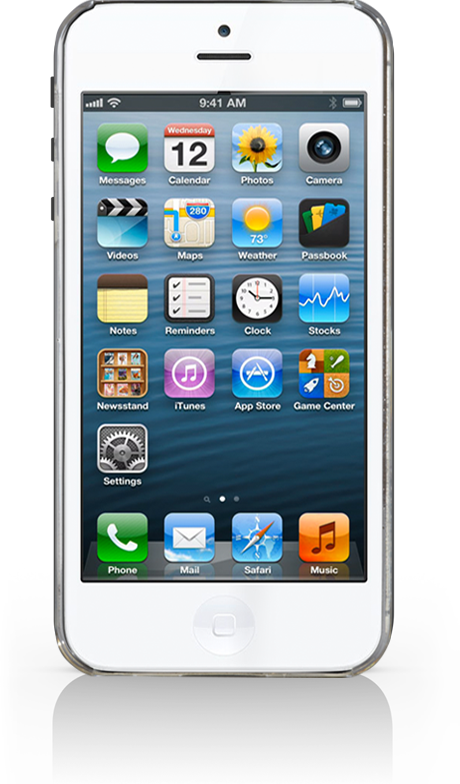
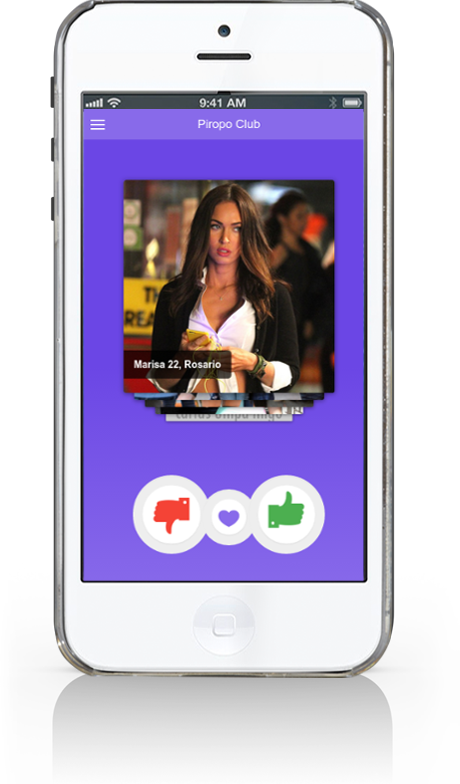
subiendo nueva imagen

diff --git a/index.html b/index.html
@@ -40,12 +40,14 @@ License URL: http://creativecommons.org/licenses/by/3.0/
 				 	<span class="menu"> </span> 
 					<ul>
 						 <li><a class="active hvr-shutter-out-horizontal"href="index.html">Home</a></li>
-						 <li><a class="hvr-shutter-out-horizontal" href="about.html">About us</a></li>
-						 <li><a class="hvr-shutter-out-horizontal" href="404.html">Team</a></li>
+						 <li><a class="hvr-shutter-out-horizontal" href="404.html">Descargar</a></li>
+						 <li><a class="hvr-shutter-out-horizontal" href="about.html">Políticas & Privacidad</a></li>
 						 <li><a class="hvr-shutter-out-horizontal" href="features.html">Términos & Condiciones</a></li>
 						   <li><a class="hvr-shutter-out-horizontal" href="contact.html">Contact us</a></li>					 
-					 </ul>				 
-				 </div>	
+
+ 				   </ul>				 
+				   
+			   </div>	
 				 		 <div class="clearfix"> </div>	 
 				 		 		 <!-- script-for-menu -->
 		 <script>
@@ -61,7 +63,8 @@ License URL: http://creativecommons.org/licenses/by/3.0/
 		 		<h1>PIROPO</h1>
 		 		<h2>.CLUB</h2>
 		 		<h3>APLICACIÓN<span>MÓVIL</span></h3>
-		 		<p>Conocé a tu verdadera media naranja y enamorate de la persona que es verdaderamente compatible </p>
+				<p>Conocé a tu verdadera media naranja y enamorate de la persona que es verdaderamente compatible </p> </br>
+				<div><a><img src="images/play-store.png" style="width: 200px;" ></a></div>
 		 	</div>
 		 	<div class="col-md-6 banner-right">
 		 		<div class="app-img">
@@ -146,7 +149,7 @@ License URL: http://creativecommons.org/licenses/by/3.0/
 					</div>
 </div>
 <!--/services-->
-<!--showcase-->
+<!--showcase
 <div class="about-section">
 	<div class="container">
 				<div class="col-md-6 about_left">
@@ -154,14 +157,14 @@ License URL: http://creativecommons.org/licenses/by/3.0/
 				</div>
 				<div class="col-md-6 about_right">
 					<h3>Piropo.club</h3>
-					<p>Pensamos esta aplicación para mejorar la forma de comunicación con las personas, de manera segura, respondiendo preguntas de intereses comunes entre las dos personas </p>
+					<p>Pensamos esta aplicación para mejorar la forma de comunicación con las personas, de manera segura, respondiendo preguntas de intereses comunes entre las dos personas. Sabemos que todas las personas que conoces te cambian la vida  </p>
 					<a href="#">DESCARGAR</a>
 				</div>
 				<div class="clearfix"> </div>
 			</div>
-</div>
+</div>-->
 <!--/shecase-->
-<!--features-->
+<!--features
 <div class="features">
 	<div class="container">
 		<div class="features-head">
@@ -244,7 +247,7 @@ License URL: http://creativecommons.org/licenses/by/3.0/
 			<div class="clearfix"> </div>
 		</div>
 	</div>
-</div>
+</div> -->
 <!--/features-->
 <!--Footer-->
 <!--<div class="footer">
@@ -323,7 +326,7 @@ License URL: http://creativecommons.org/licenses/by/3.0/
 <!--copyrights-->
 <div class="copyrights">
 	<div class="container"> 
-		<p>Copyrights &copy; 2016  | Design by <a href="#">Race App</a></p>
+		<p>Copyrights &copy; 2016  | Design by <a href="#">Piropo.club</a></p>
 		<div class="social-icons">
 			<a href="#"><span class="beh"> </span></a>
 			<a href="#"><span class="face"> </span></a>
